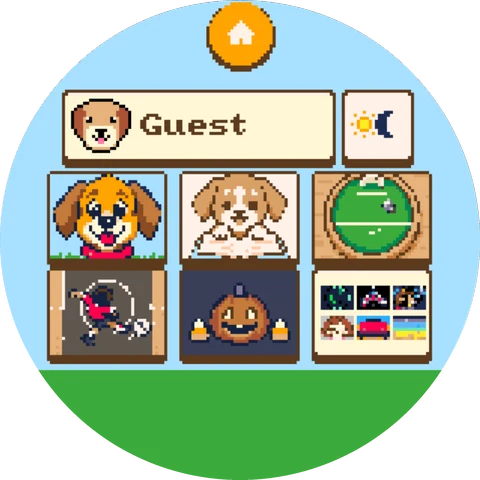
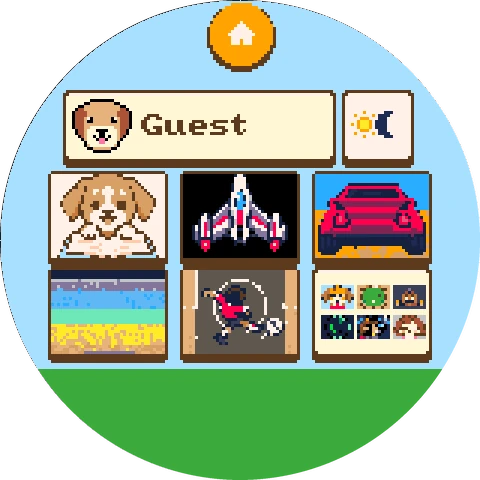
fix(site): the player stays round on iPhone, and its poster shows the new Home (#233)
Before: on an iPhone the screen on the home page was a tall oval until
Play, and its still showed the old Home (Pets Club first).

After: the player is a circle on every browser, and the still shows the
guest's Home as the demo opens it: Biscuit, Starfighter, Rally, Sand Jar
and Tilt FC.

How: `.live` gets an explicit square size (`--s`, the same variable full
screen already used) instead of `aspect-ratio` plus percent heights,
which Safari resolved from the image's own height.
`site/images/play-home.webp` is a fresh sim snapshot of the guest's
Home, masked round.

---
_Generated by [Claude
Code](https://claude.ai/code/session_01CqmYk5Adh7RFAzVXewe8EV)_

diff --git a/site/index.html b/site/index.html
@@ -79,11 +79,11 @@
     /* The home page's player: a still of the menu until a tap loads the firmware (about 4 MB). It takes only the
        round screen's square: the buttons sit in its corners and the tilt is the dark rim, so playing moves nothing. */
     .player { display: flex; flex-direction: column; align-items: center; outline: none; }
-    .live { position: relative; width: min(420px, 90vw); aspect-ratio: 1; border-radius: 50%; padding: 7%; touch-action: none;
+    .live { --s: min(420px, 90vw); position: relative; width: var(--s); height: var(--s); border-radius: 50%; padding: calc(var(--s) * 0.07); touch-action: none;
       background: radial-gradient(circle at 35% 30%, #4a4350, #24202a 60%, #16131a); box-shadow: 0 18px 40px rgba(20, 14, 26, 0.35); }
     .live.on { cursor: grab; }
-    .live .poster { position: relative; display: block; width: 100%; height: 100%; padding: 0; border: 0; border-radius: 50%; background: none; cursor: pointer; }
-    .live .poster img { display: block; width: 100%; height: 100%; }
+    .live .poster { position: relative; display: block; width: 100%; height: 100%; padding: 0; border: 0; border-radius: 50%; background: none; cursor: pointer; -webkit-appearance: none; appearance: none; }
+    .live .poster img { display: block; width: 100%; height: 100%; object-fit: contain; }
     .live .go { position: absolute; left: 50%; top: 50%; transform: translate(-50%, -50%); padding: 10px 22px; border-radius: 999px;
       background: var(--accent); color: #fff; font-size: 20px; font-weight: 800; line-height: 1.2; box-shadow: 0 6px 18px rgba(20, 14, 26, 0.35); }
     #screen { position: relative; display: block; width: 100%; height: 100%; border-radius: 50%; background: #202020; cursor: pointer; box-shadow: 0 0 0 3px #0c0a0e; }
@@ -102,7 +102,7 @@
     /* Full screen: the player covers the page; on a phone that is how it starts. */
     .player.full { position: fixed; inset: 0; z-index: 50; background: var(--bg); justify-content: center; padding: 12px; }
     /* A percentage padding follows the parent's width, which full screen makes the whole window: keep the rim at 7% of the screen. */
-    .player.full .live { --s: min(92vw, 92vh); --s: min(92vw, 92dvh); width: var(--s); padding: calc(var(--s) * 0.07); }
+    .player.full .live { --s: min(92vw, 92vh); --s: min(92vw, 92dvh); }
     html.locked, html.locked body { overflow: hidden; }
     .live-note { max-width: 420px; margin: 12px 0 0 !important; font-size: 15px !important; color: var(--muted) !important; text-align: center; }
     .what-img { display: block; width: min(420px, 100%); height: auto; margin: 8px auto 0; }
